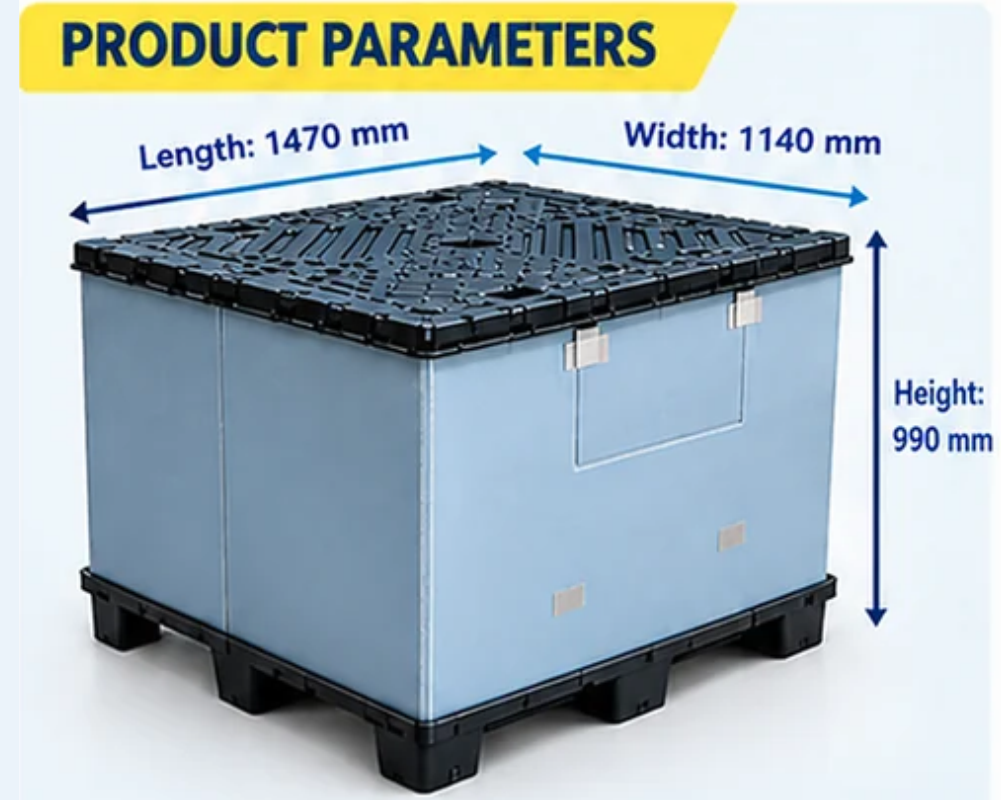
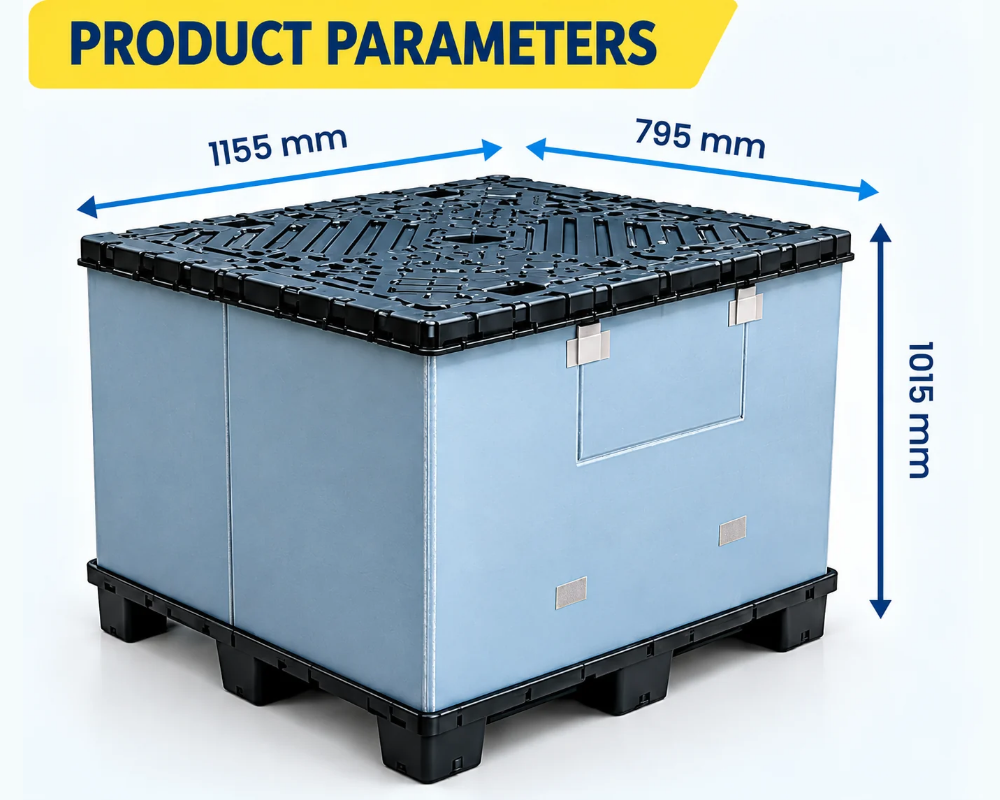
update

diff --git a/src/pages/FlcBoxes.jsx b/src/pages/FlcBoxes.jsx
@@ -14,13 +14,20 @@ const images = [
   "/img/flc-boxes/1.5.png",
 ];
 
+const productParameters = [
+  ["Product Name", "Pallet sleeve box"],
+  ["Material of Pallet", "100% New PE Material"],
+  ["Size (mm)", "1155 × 795 × 1015 mm"],
+  ["Material of Foldable Sleeve", "3500 g/m² PP Material"],
+];
+
 const specifications = [
-  ["External Size (mm)", "1470 × 1140 × 990"],
+  ["External Size (mm)", "1155 × 795 × 1015 mm"],
   ["Pallet Material", "100% New PE"],
   ["Sleeve Material", "PP Material (3500 g/m²)"],
-  ["Weight (Approx.)", "—"],
-  ["Dynamic Load", "Up to 800 kg"],
-  ["Static Load", "Up to 3000 kg"],
+  ["Weight (Approx.)", "38.45 KG"],
+  ["Dynamic Load", "—"],
+  ["Static Load", "1 TON PLUS"],
   ["Racking Load", "—"],
   ["Temperature Range", "-20°C to +60°C"],
   ["Color", "Pallet & Lid: Black | Sleeve: Grey"],
@@ -29,17 +36,28 @@ const specifications = [
 ];
 
 const features = [
-  "Heavy-duty pallet base with anti-slip top.",
+  "Heavy duty pallet base with anti-slip top.",
   "PP sleeve with high tear and impact resistance.",
   "Locking clips for quick assembly and secure holding.",
-  "Fully foldable sleeve for maximum space saving.",
+  "Fully foldable sleeve for space saving.",
+];
+
+
+
+const applications = [
+  "Manufacturing",
+  "Warehousing",
+  "Logistics",
+  "Automotive",
+  "Food Processing",
+  "Retail",
 ];
 
 const FlcBoxes = () => {
   const [activeImage, setActiveImage] = useState(0);
 
   const whatsappMessage = encodeURIComponent(
-    "Hello Pilco, I want to enquire about PILCO FLC Boxes. Please share pricing, specifications and availability."
+    "Hello Pilco, I want to enquire about PILCO FLC Boxes (1155 × 795 × 1015 mm). Please share pricing, specifications and availability."
   );
 
   return (
@@ -47,6 +65,7 @@ const FlcBoxes = () => {
       <Breadcrumb title="FLC Boxes" />
 
       {/* CATEGORY INTRODUCTION */}
+
       <section className="category-page">
         <div className="container">
           <div className="category-intro text-center mt-5">
@@ -56,28 +75,41 @@ const FlcBoxes = () => {
             </h1>
 
             <p className="category-description text-center">
-              Pilco FLC (Foldable Large Containers) Boxes
-              provide a durable and space-efficient solution
-              for industrial storage and transportation.
-              Designed for warehouses, manufacturing,
-              logistics, automotive, food processing,
-              and retail industries, these containers
-              ensure organized storage and convenient
-              material handling.
+              <strong>
+                FLC (Foldable Large Containers) Boxes
+              </strong>{" "}
+              provide a practical and dependable solution for
+              modern storage and transportation requirements.
+              Built for strength, durability, and efficient
+              space utilization, these containers are widely
+              used in manufacturing, warehousing, logistics,
+              automotive, food processing, and retail industries.
+              Their robust construction helps keep goods protected
+              during handling and transportation, while the
+              stackable design supports systematic storage,
+              improved space management, and efficient material
+              handling operations.
             </p>
 
             <p className="category-description text-center">
-              Their collapsible design reduces the space
-              required for empty containers and return
-              transportation. Built for repeated use,
-              PILCO FLC Boxes help improve storage
-              efficiency, reduce logistics costs,
-              and simplify bulk goods handling.
+              A key benefit of FLC Boxes is their collapsible
+              structure, allowing them to fold down when not
+              in use. This helps minimize the storage space
+              needed for empty containers and makes return
+              transportation more economical. As a result,
+              businesses can utilize warehouse space more
+              effectively, lower reverse logistics costs,
+              and streamline daily operations. Designed for
+              repeated use, FLC Boxes are a reliable and
+              cost-effective alternative to conventional
+              packaging, helping reduce unused space and
+              improve overall supply chain efficiency.
             </p>
 
           </div>
         </div>
       </section>
+
 
       {/* PRODUCT DETAILS */}
       <section className="product-info-section py-4">
@@ -102,8 +134,9 @@ const FlcBoxes = () => {
                     <button
                       type="button"
                       key={index}
-                      className={`product-thumbnail ${activeImage === index ? "active" : ""
-                        }`}
+                      className={`product-thumbnail ${
+                        activeImage === index ? "active" : ""
+                      }`}
                       onClick={() => setActiveImage(index)}
                       aria-label={`View image ${index + 1}`}
                       aria-pressed={activeImage === index}
@@ -132,12 +165,18 @@ const FlcBoxes = () => {
                   </h2>
 
                   <p className="product-short-description">
-                    PILCO FLC Boxes feature a strong PE pallet
-                    base, a foldable PP sleeve, and a secure
-                    locking system. Their stackable and
-                    reusable construction makes them ideal
-                    for bulk storage, warehouse operations,
-                    and efficient transportation.
+                    PILCO FLC Boxes are designed for
+                    efficient storage and transportation
+                    of bulk goods across industries.
+                    Featuring a heavy-duty pallet base,
+                    a high-strength PP foldable sleeve,
+                    and a secure locking system, these
+                    containers provide durability,
+                    protection, and convenient material
+                    handling. Their collapsible and
+                    stackable design makes them suitable
+                    for warehouse storage, transportation,
+                    and return logistics.
                   </p>
 
                   <h3 className="specification-heading mt-3">
@@ -151,6 +190,12 @@ const FlcBoxes = () => {
                       </li>
                     ))}
                   </ul>
+
+                  <h3 className="specification-heading mt-3">
+                    Key Benefits
+                  </h3>
+
+               
 
                   {/* BUTTONS */}
                   <div className="product-action-buttons mt-4">
@@ -181,6 +226,39 @@ const FlcBoxes = () => {
             </div>
 
           </article>
+        </div>
+      </section>
+
+      {/* PRODUCT PARAMETERS */}
+      <section className="py-4">
+        <div className="container">
+
+          <h2 className="heading text-center mb-4">
+            FLC Boxes Product Parameters
+          </h2>
+
+          <div className="table-responsive">
+            <table className="table table-bordered table-hover align-middle">
+
+              <thead className="table-primary">
+                <tr>
+                  <th scope="col">Parameter</th>
+                  <th scope="col">Details</th>
+                </tr>
+              </thead>
+
+              <tbody>
+                {productParameters.map(([label, value], index) => (
+                  <tr key={index}>
+                    <th scope="row">{label}</th>
+                    <td>{value}</td>
+                  </tr>
+                ))}
+              </tbody>
+
+            </table>
+          </div>
+
         </div>
       </section>
 
@@ -217,6 +295,7 @@ const FlcBoxes = () => {
         </div>
       </section>
 
+    
     </>
   );
 };

diff --git a/src/pages/About.jsx b/src/pages/About.jsx
@@ -1,11 +1,10 @@
 import React from 'react'
-import ProductInfoCard from "../component/ProductInfoCard"
 
 const About = () => {
    const stats = [
      {
        icon: "fa-calendar-check",
-       value: "39+",
+       value: "58+",
        label: "Years of Experience",
      },
      {
@@ -109,7 +108,7 @@ const About = () => {
 
                 {/* Experience Badge */}
                 <div className="experience-badge">
-                  <div className="experience-number">39+</div>
+                  <div className="experience-number">58+</div>
 
                   <span>Years of Experience</span>
                 </div>
@@ -368,7 +367,7 @@ const About = () => {
         </div>
       </section>
 
-      <ProductInfoCard/>
+    
     </>
   );
 }

diff --git a/src/pages/Home.jsx b/src/pages/Home.jsx
@@ -491,7 +491,7 @@ const Home = () => {
 
                 {/* Experience Badge */}
                 <div className="experience-badge">
-                  <div className="experience-number">39+</div>
+                  <div className="experience-number">58+</div>
 
                   <span>Years of Experience</span>
                 </div>
@@ -1260,7 +1260,7 @@ const Home = () => {
             <div className="col-lg-3 col-sm-4 col-6">
               <div className="stat-item">
                 <div className="stat-number">
-                  <Counter end={39} />
+                  <Counter end={58} />
                 </div>
 
                 <h6>Years of Experience</h6>
